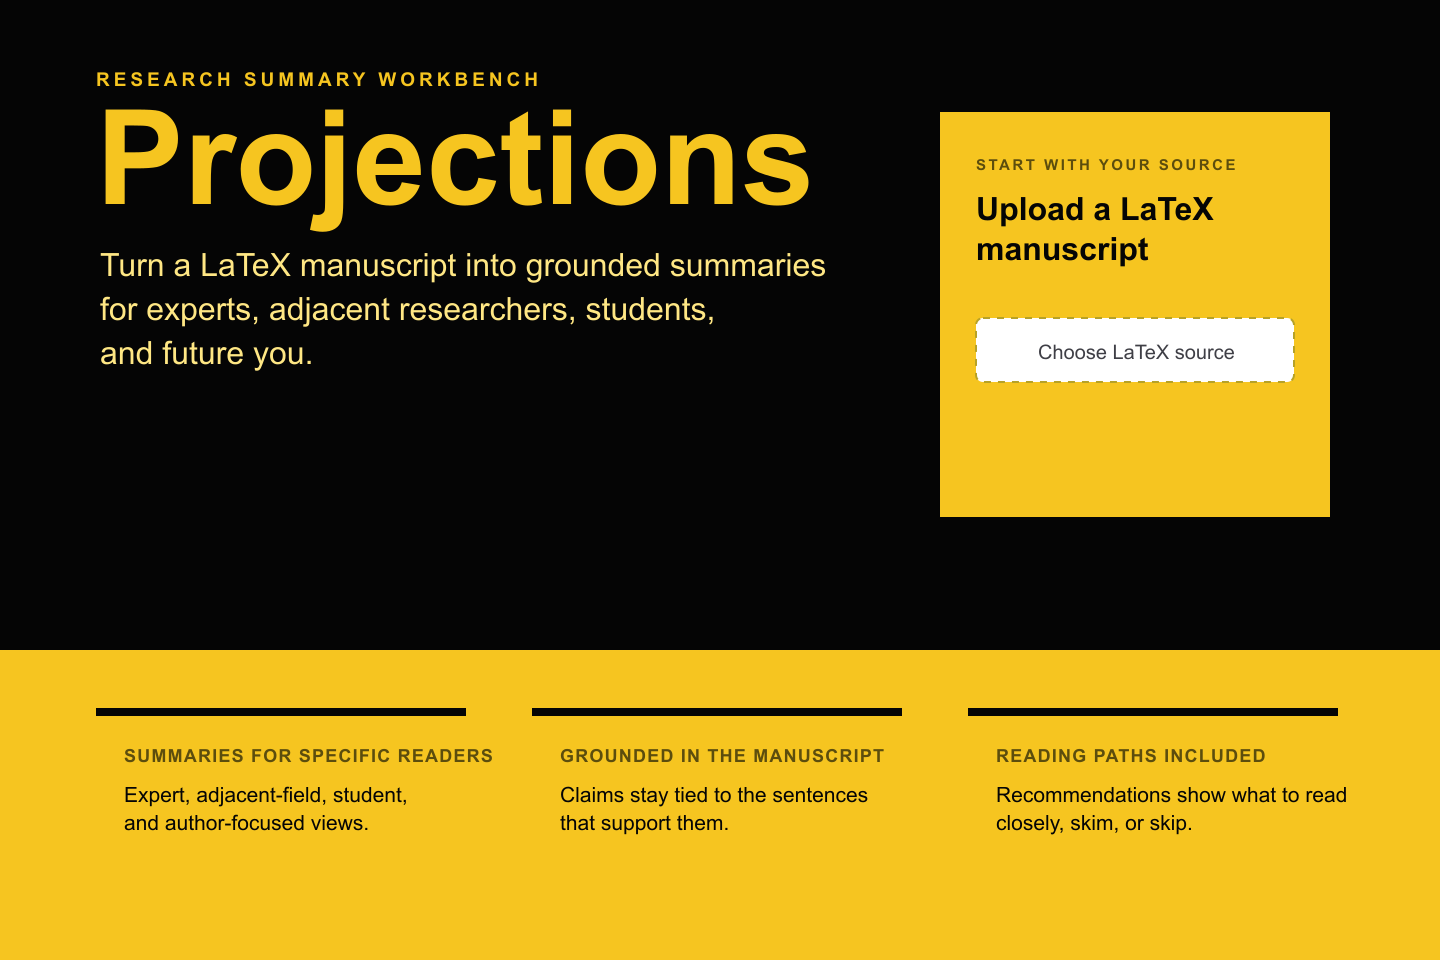
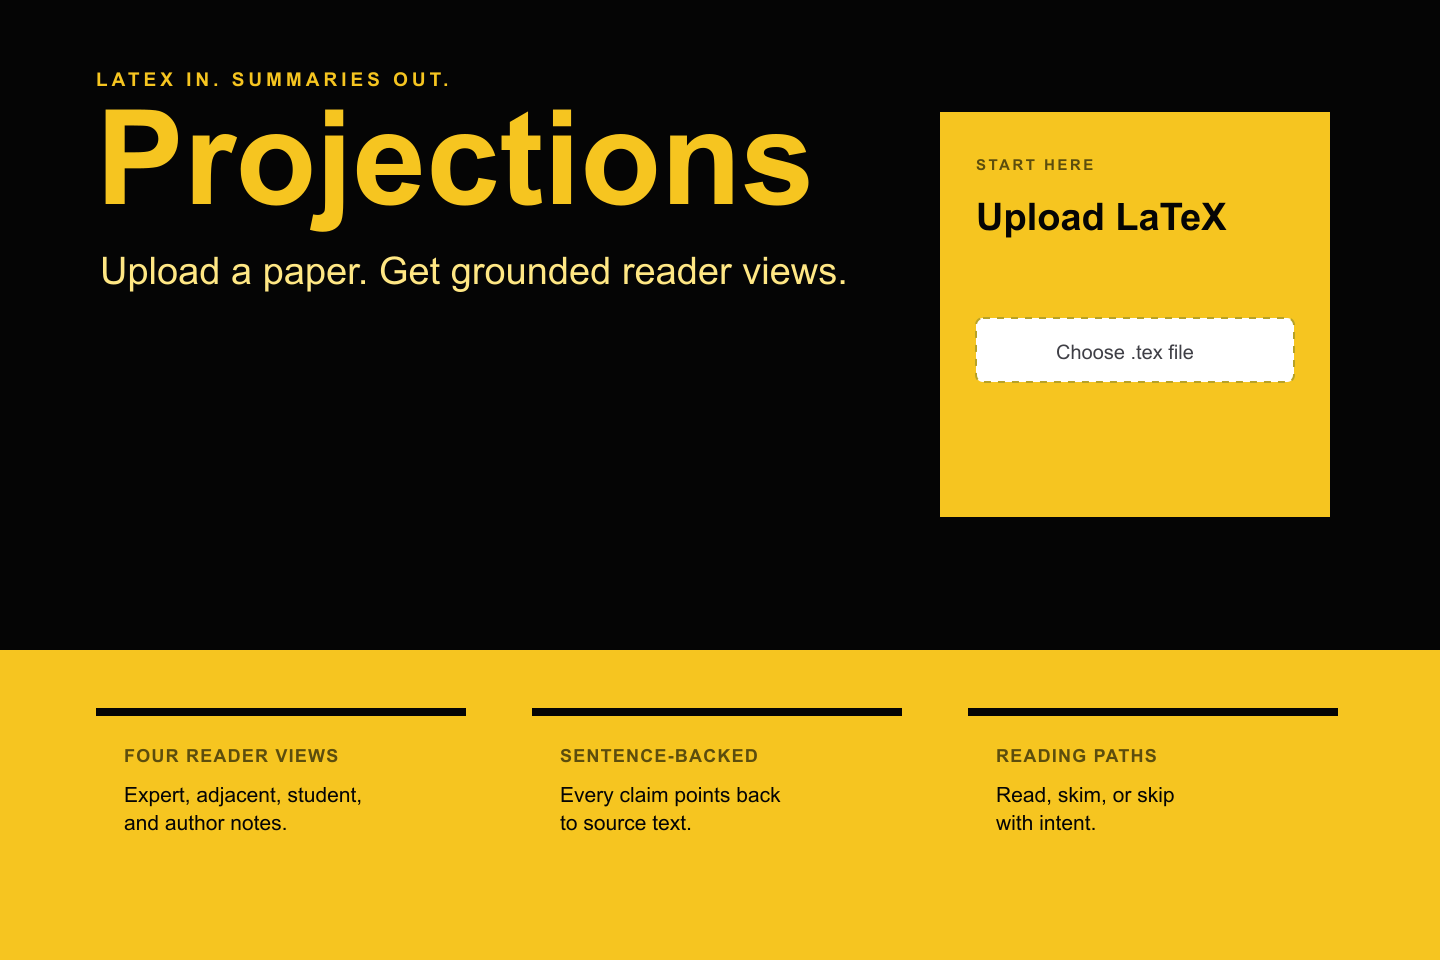
copy: simplify homepage wording

diff --git a/src/app/page.tsx b/src/app/page.tsx
@@ -38,7 +38,7 @@ export default function Home() {
           <div className="mx-auto grid min-h-[72vh] w-full max-w-6xl grid-cols-1 items-center gap-10 px-6 py-14 lg:grid-cols-[minmax(0,0.95fr)_minmax(360px,0.65fr)]">
             <div className="max-w-3xl">
               <div className="text-xs font-semibold uppercase tracking-[0.18em] text-[color:var(--accent)]">
-                Research summary workbench
+                LaTeX in. Summaries out.
               </div>
               <h1
                 className="mt-5 text-6xl font-semibold leading-[0.95] text-[color:var(--accent)] sm:text-7xl"
@@ -46,21 +46,20 @@ export default function Home() {
               >
                 Projections
               </h1>
-              <p className="mt-6 max-w-2xl text-lg leading-8 text-[#ffe784]">
-                Turn a LaTeX manuscript into grounded summaries for experts, adjacent
-                researchers, students, and future you.
+              <p className="mt-6 max-w-xl text-2xl leading-9 text-[#ffe784]">
+                Upload a paper. Get grounded reader views.
               </p>
             </div>
 
             <div className="border-l-4 border-[color:var(--accent)] bg-[color:var(--accent)] p-6 text-[color:var(--ink)] shadow-2xl shadow-black/30">
               <div className="text-xs font-semibold uppercase tracking-[0.16em] text-[color:var(--muted)]">
-                Start with your source
+                Start here
               </div>
               <div
                 className="mt-2 text-2xl font-semibold text-[color:var(--ink)]"
                 style={{ fontFamily: 'var(--font-serif)' }}
               >
-                Upload a LaTeX manuscript
+                Upload LaTeX
               </div>
               <div className="mt-5">
                 <UploadCard
@@ -89,16 +88,16 @@ export default function Home() {
           <div className="grid w-full grid-cols-1 gap-4 text-left sm:grid-cols-3">
             {[
               {
-                title: 'Summaries for specific readers',
-                body: 'Expert, adjacent-field, student, and author-focused views.',
+                title: 'Four reader views',
+                body: 'Expert, adjacent, student, and author notes.',
               },
               {
-                title: 'Grounded in the manuscript',
-                body: 'Claims stay tied to the sentences that support them.',
+                title: 'Sentence-backed',
+                body: 'Every claim points back to source text.',
               },
               {
-                title: 'Reading paths included',
-                body: 'Recommendations show what to read closely, skim, or skip.',
+                title: 'Reading paths',
+                body: 'Read, skim, or skip with intent.',
               },
             ].map((item) => (
               <div

diff --git a/src/app/analysis/AnalysisView.tsx b/src/app/analysis/AnalysisView.tsx
@@ -874,7 +874,7 @@ export function AnalysisView({
             <>
               <section className="flex flex-col gap-4">
                 <p className="text-sm text-[color:var(--muted)]">
-                  Choose a reader view to inspect its summary, evidence, and reading path.
+                  Pick a reader view. Check the evidence when needed.
                 </p>
                 <AudienceViewsCard
                   result={result}
@@ -927,7 +927,7 @@ export function AnalysisView({
             </summary>
             <div className="mt-4">
               <div className="text-sm text-[color:var(--muted)]">
-                Inspect the source labels and structured outline behind the summaries.
+                Inspect labels and outline.
               </div>
               <div className="mt-4">
                 <TextPanel
@@ -1008,7 +1008,7 @@ export function AnalysisView({
                 Review
               </div>
               <div className="mt-2 text-sm text-[color:var(--ink)]">
-                Review labels, evidence, and outline structure before using the summaries.
+                Review labels, evidence, and outline.
               </div>
             </div>
             <TextPanel

diff --git a/src/components/ProgressDashboardCard.tsx b/src/components/ProgressDashboardCard.tsx
@@ -112,11 +112,11 @@ export function ProgressDashboardCard({
     <div className="flex flex-col gap-4">
       <div className="rounded-3xl border border-[color:var(--border)] bg-white/80 p-6 shadow-sm">
         <div className="text-xs font-semibold uppercase tracking-wide text-[color:var(--muted)]">
-          Preparing grounded summaries
+          Building summaries
         </div>
         <div className="mt-2 flex flex-wrap items-center gap-3">
           <div className="text-2xl font-semibold text-[color:var(--ink)]">
-            Audience summaries
+            Summaries
           </div>
           {badgeText && (
             <span className={`rounded-full border px-2 py-0.5 text-[11px] ${badgeClass}`}>

diff --git a/src/components/UploadCard.tsx b/src/components/UploadCard.tsx
@@ -30,7 +30,7 @@ export function UploadCard({
             className="flex min-w-[240px] max-w-[420px] cursor-pointer items-center justify-center gap-2 rounded-md border border-dashed bg-white px-4 py-3 text-sm text-zinc-700 hover:bg-zinc-50"
             tabIndex={0}
             role="button"
-            aria-label="Choose a LaTeX source file"
+            aria-label="Choose LaTeX file"
             onKeyDown={(e) => {
               if (e.key === 'Enter' || e.key === ' ') {
                 e.preventDefault();
@@ -45,7 +45,7 @@ export function UploadCard({
               ref={inputRef}
               onChange={(e) => onFileChange(e.target.files?.[0] ?? null)}
             />
-            <span className="truncate">{file ? file.name : 'Choose LaTeX source'}</span>
+            <span className="truncate">{file ? file.name : 'Choose .tex file'}</span>
           </label>
         </div>
         {showStatus && status.kind !== 'idle' && (